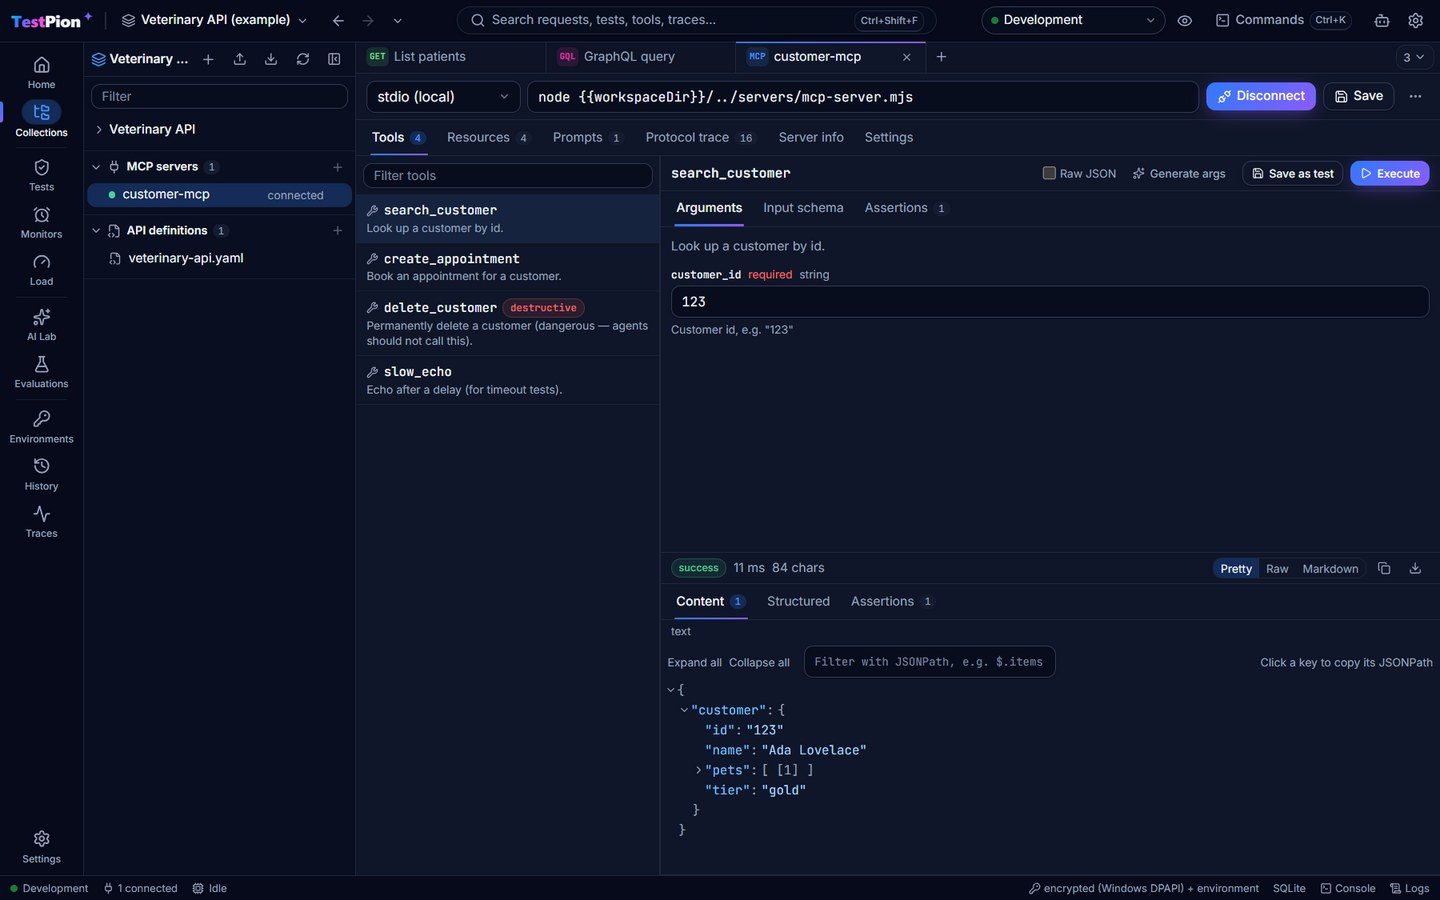
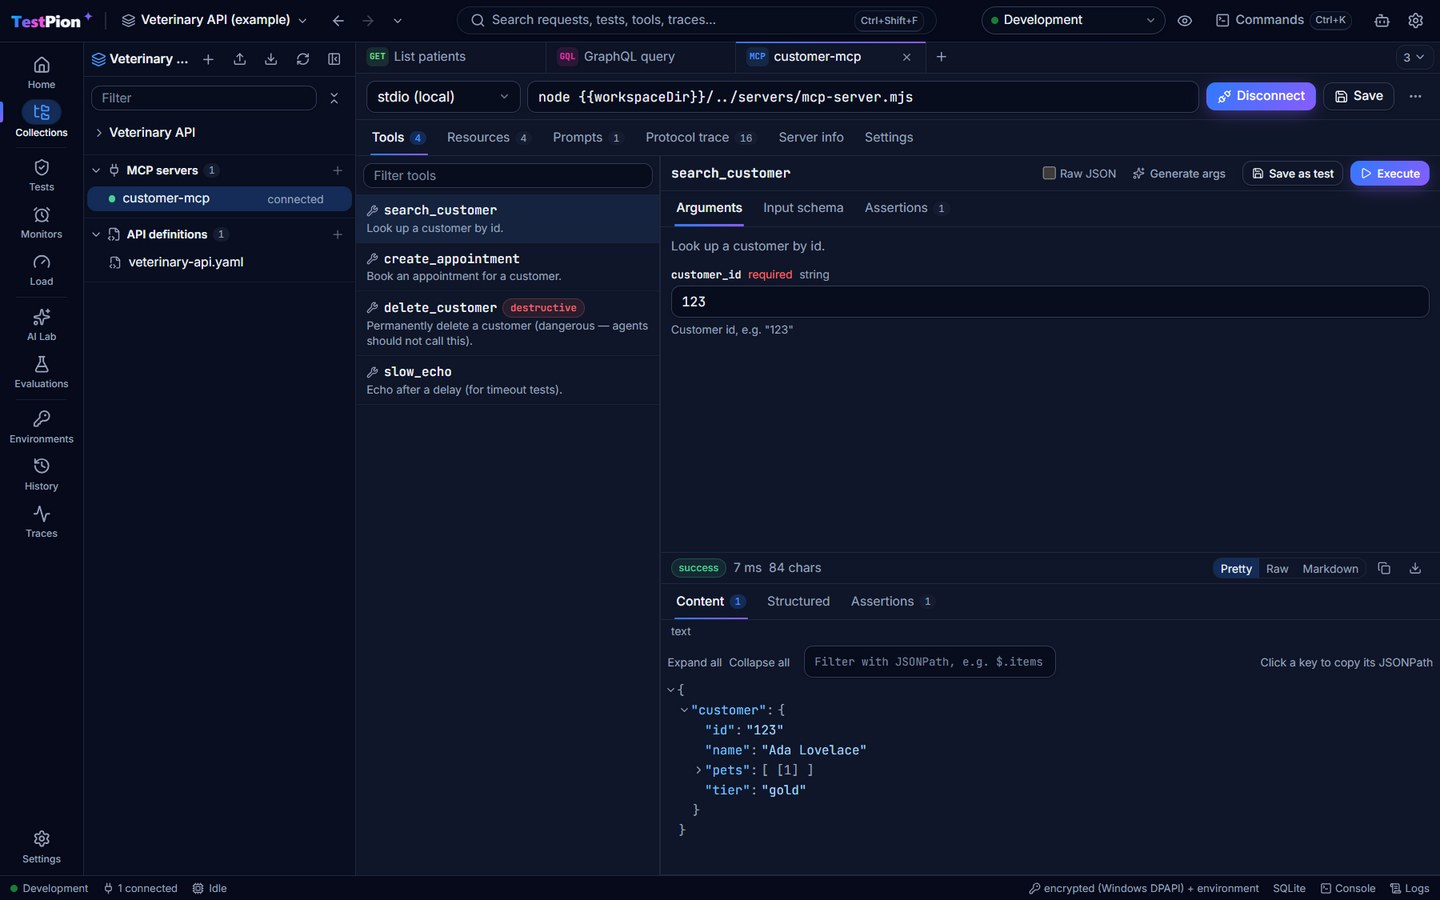
Release v0.19.0: breadcrumbs, faster editors, Collapse all, folder menus

Changed region(s): [[0.0625, 0.0933, 0.25, 0.3111], [0.5, 0.6222, 0.5625, 0.6533]]

diff --git a/packages/core/src/version.ts b/packages/core/src/version.ts
@@ -1,2 +1,2 @@
 /** TestPion's version (the engine, CLI and app are released together). */
-export const ENGINE_VERSION = '0.18.0';
+export const ENGINE_VERSION = '0.19.0';

diff --git a/CHANGELOG.md b/CHANGELOG.md
@@ -1,6 +1,8 @@
 # Changelog
 
-## Unreleased
+## 0.19.0 — 2026-09-30
+
+Highlights: a breadcrumb above every editor, faster editors with large collections, Collapse all, and folder menus with Duplicate.
 
 - **Folders**: right-click a folder for its menu (it only opened from **⋯**), and **Duplicate** copies a folder with everything in it (new ids throughout).
 - **Collapse all** button beside the sidebar's filter folds every collection and folder.
